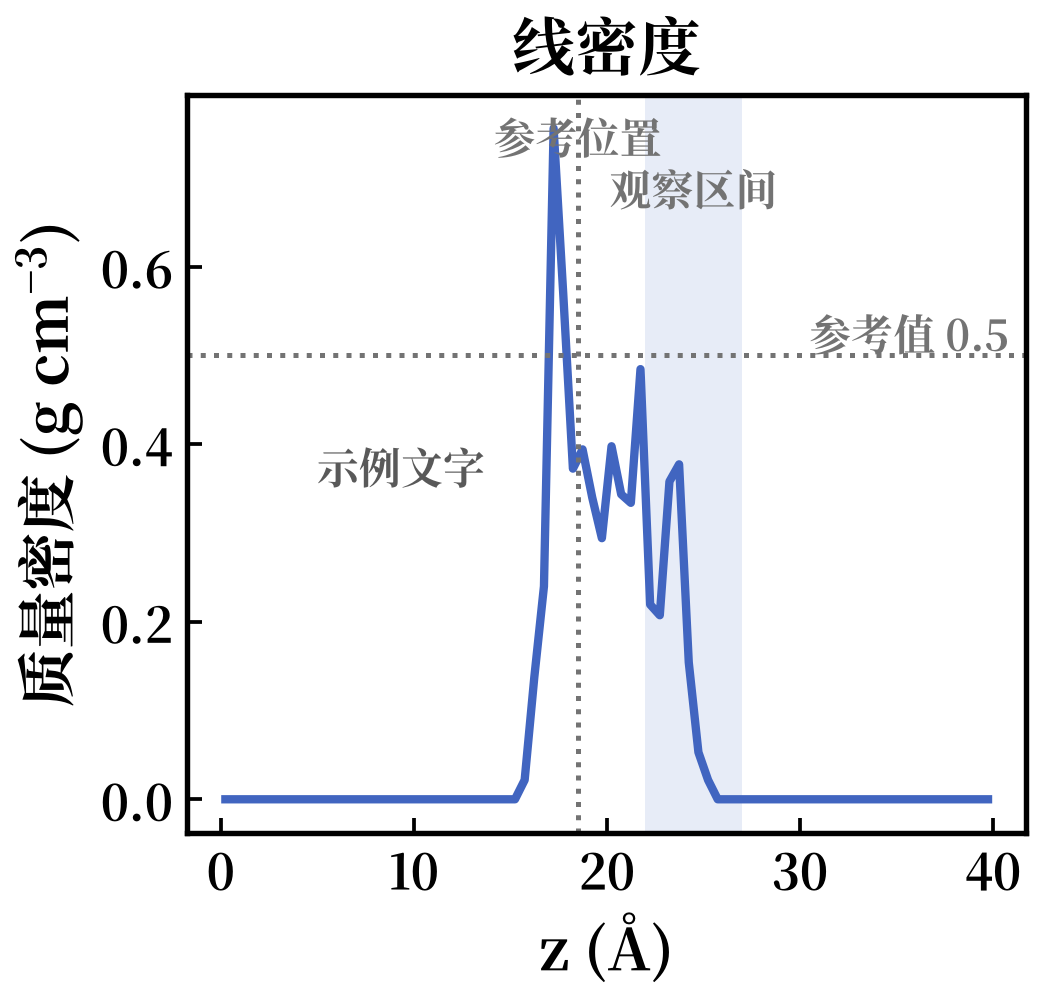
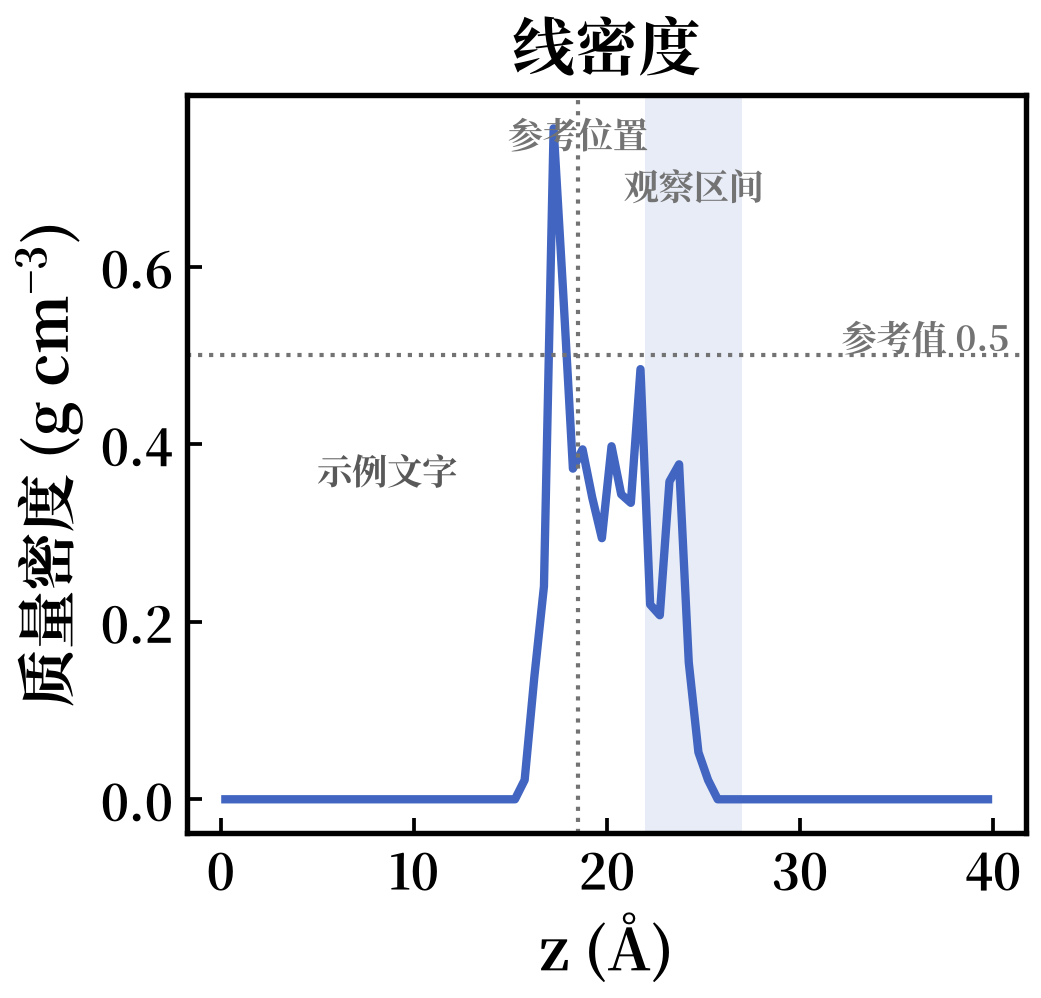
style(msd): 缩小标注与 D 标注
- 图内 note/text 缩到 8.5 pt，参考线 1.0 pt，仍保持粗体
- MSD fit 的 D 显示改为两位有效小数、8 pt，降低视觉权重
- span 标签位置调整后重建图库
- 默认 128 + 科学 54 通过

diff --git a/src/mdanal/analyses/hbond_type/_impl.py b/src/mdanal/analyses/hbond_type/_impl.py
@@ -140,7 +140,7 @@ def render_panel(ctx, request: PanelRequest) -> Panel:
                     notes=list(bars.notes),
                     height=0.7,
                     color=bars.color or chart.COLORS["primary"],
-                    note_fontsize=9,
+                    note_fontsize=8,
                     headroom=1.35,
                 )
         annotations.draw(ax, ctx)
@@ -228,7 +228,7 @@ def _bars(ctx, table: pd.DataFrame, column: str, suffix: str):
         notes=[f"{_number(v)} ({_percent(s)})" for v, s in zip(values, shares)],
         height=0.7,
         color=chart.COLORS["primary"],
-        note_fontsize=9,
+        note_fontsize=8,
         headroom=1.35,
     )
     ax.set_xlabel(ctx.label(suffix))

diff --git a/src/mdanal/analyses/msd/figures.py b/src/mdanal/analyses/msd/figures.py
@@ -102,12 +102,12 @@ def _draw_fit(ax, ctx, tables):
     ax.text(
         0.03,
         0.95,
-        f"{ctx.label('d')} = {float(summary['D_m2_per_s']) / 1e-9:.3f} "
+        f"{ctx.label('d')} = {float(summary['D_m2_per_s']) / 1e-9:.2f} "
         r"$\times 10^{-9}$ m$^2$ s$^{-1}$",
         transform=ax.transAxes,
         ha="left",
         va="top",
-        fontsize=chart.ANNOTATION_FONTSIZE, fontweight=chart.ANNOTATION_WEIGHT,
+        fontsize=8.0, fontweight=chart.ANNOTATION_WEIGHT,
     )
     chart.legend(ax, loc="upper right")
 

diff --git a/src/mdanal/plot/chart.py b/src/mdanal/plot/chart.py
@@ -51,9 +51,9 @@ THEME_COLORS: tuple[str, ...] = (
 )
 
 # 图内标注的统一尺寸/字重；默认主题下标注不能比轴文字更细。
-ANNOTATION_FONTSIZE = 10.0
+ANNOTATION_FONTSIZE = 8.5
 ANNOTATION_WEIGHT = "bold"
-ANNOTATION_LINEWIDTH = 1.2
+ANNOTATION_LINEWIDTH = 1.0
 
 # 密度用白→深蓝的顺序色标
 _DENSITY_COLORS = ["#ffffff", "#dcecf7", "#9ec9e4", "#4a90c2", "#1d5b8f", "#0b2d5c"]
